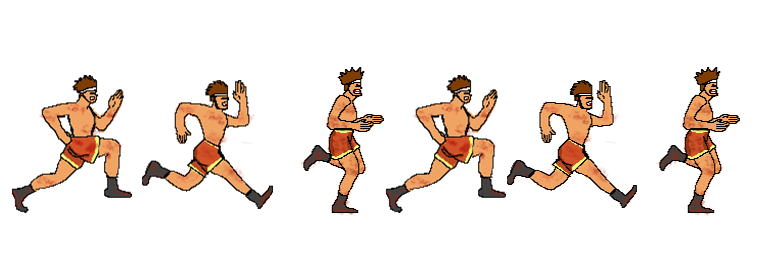
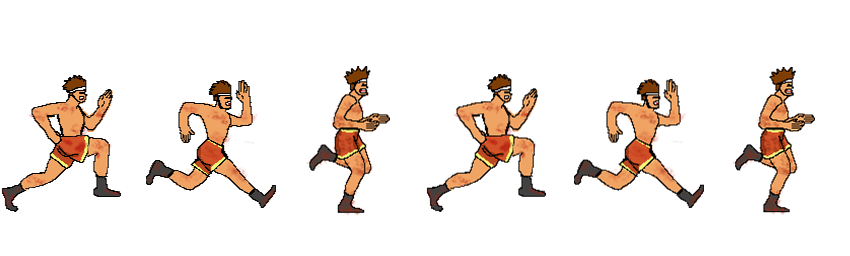
post-credits Commit

Changed region(s): [[0.0, 0.25, 0.5, 0.8438], [0.5, 0.2812, 0.8438, 0.8438], [0.8438, 0.25, 0.9688, 0.8438]]

diff --git a/src/scenes/Play.js b/src/scenes/Play.js
@@ -6,7 +6,7 @@ class Play extends Phaser.Scene {
 
     preload() {
         //Loading image/tile sprites.
-        this.load.image('Background1', './assets/background1.png');
+        this.load.image('Background1', './assets/Background1.png');
         this.load.image('Background2', './assets/background2.png');
         this.load.image('Crate', './assets/obstacle_Crate.png');
         this.load.image('Bin', './assets/obstacle_Bin.png');
@@ -14,13 +14,13 @@ class Play extends Phaser.Scene {
 
         //Loading spritesheets.
         this.load.spritesheet('Player', './assets/player.png',
-            {frameWidth: 128, frameHeight: 256, startFrame: 0, endFrame: 5}
+            {frameWidth: 141.6666666666666, frameHeight: 256, startFrame: 0, endFrame: 5}
         );
         this.load.spritesheet('Zombie_Chibi', './assets/zombie_Chibi.png',
             {frameWidth: 128, frameHeight: 256, startFrame: 0, endFrame: 5}
         );
         this.load.spritesheet('Zombie_Scary', './assets/zombie_Scary.png',
-            {frameWidth: 128, frameHeight: 256, startFrame: 0, endFrame: 7}
+            {frameWidth: 137.5, frameHeight: 256, startFrame: 0, endFrame: 7}
         );
         this.load.spritesheet('Zombie_Hand', './assets/zombie_Hand.png',
             {frameWidth: 256, frameHeight: 256, startFrame: 0, endFrame: 5}
@@ -38,7 +38,7 @@ class Play extends Phaser.Scene {
 
         //Animation config
         this.anims.create({ //Player
-            key: 'Player_Loop', frameRate: 8, repeat: -1,
+            key: 'Player_Loop', frameRate: 9, repeat: -1,
             frames: this.anims.generateFrameNumbers('Player', { start: 0, end: 5, first: 0}),
         });
         this.anims.create({ //Zombie-Chibi
@@ -171,7 +171,9 @@ class Play extends Phaser.Scene {
             this.PlayingGameOver = true;
             if(this.Time > highScore) {
                 highScore = this.Time;
+                newHighScore = true;
             }
+            score = this.Time;
             this.scene.start('GameOver');
         }
     }

diff --git a/src/scenes/GameOver.js b/src/scenes/GameOver.js
@@ -4,14 +4,48 @@ class GameOver extends Phaser.Scene {
     }
 
     preload() {
-
+        // load background
+        this.load.image('gameoverBackground', './assets/Menu_Gameover.png');
     }
 
     create() {
-
+        this.background = this.add.tileSprite(
+            0, 0, 1024, 576, 'gameoverBackground'
+        ).setOrigin(0, 0).setDepth(0);
 
         keySpace = this.input.keyboard.addKey(Phaser.Input.Keyboard.KeyCodes.SPACE);
         keyEsc = this.input.keyboard.addKey(Phaser.Input.Keyboard.KeyCodes.ESC);
+
+        //======================================================================
+        // Gui
+        //======================================================================
+        this.Text_Box = this.add.rectangle(game.config.width/2, 0, 
+            game.config.width, 
+            game.config.height/14, 
+            0xF6DF7A
+        ).setOrigin(0.5, 0).setDepth(9);
+        let textConfig = {
+            fontFamily: 'Courier',
+            backgroundColor: '#F6DF7A',
+            fontSize: '28px',
+            color: '#000000',
+            align: 'center',
+            padding: {
+            top: 5,
+            },
+        }
+
+        let Text = 'Final score: ' + score;
+        if(newHighScore) {
+            Text += '\t New Highscore!';
+            newHighScore = false;
+        }
+        this.Text_Stats = this.add.text(
+            this.Text_Box.x,
+            this.Text_Box.y, 
+            Text, 
+            textConfig
+        ).setDepth(10).setOrigin(0.5, 0);
     }
 
     update() {

diff --git a/src/scenes/HowTo.js b/src/scenes/HowTo.js
@@ -4,11 +4,14 @@ class HowTo extends Phaser.Scene {
     }
 
     preload() {
-
+        // load background
+        this.load.image('howtoBackground', './assets/Menu_Howto.png');
     }
 
     create() {
-
+        this.background = this.add.tileSprite(
+            0, 0, 1024, 576, 'howtoBackground'
+        ).setOrigin(0, 0).setDepth(0);
 
         keyEsc = this.input.keyboard.addKey(Phaser.Input.Keyboard.KeyCodes.ESC);
     }

diff --git a/src/scenes/Menu.js b/src/scenes/Menu.js
@@ -5,7 +5,7 @@ class Menu extends Phaser.Scene {
 
     preload() {
         // load background
-        this.load.image('menuBackground', './assets/menu_Main.png');
+        this.load.image('menuBackground', './assets/Menu_Main.png');
     }
 
     create() {

diff --git a/src/main.js b/src/main.js
@@ -12,7 +12,9 @@ let config = {
 
 let game = new Phaser.Game(config);
 
+let score = 0;
 let highScore = 0;
+let newHighScore = false;
 
 // reserve keyboard vars
 let keyW, keyS, keySpace, keyC, keyH, keyEsc;

diff --git a/src/scenes/Credits.js b/src/scenes/Credits.js
@@ -4,7 +4,7 @@ class Credits extends Phaser.Scene {
     }
 
     preload() {
-
+        
     }
 
     create() {
